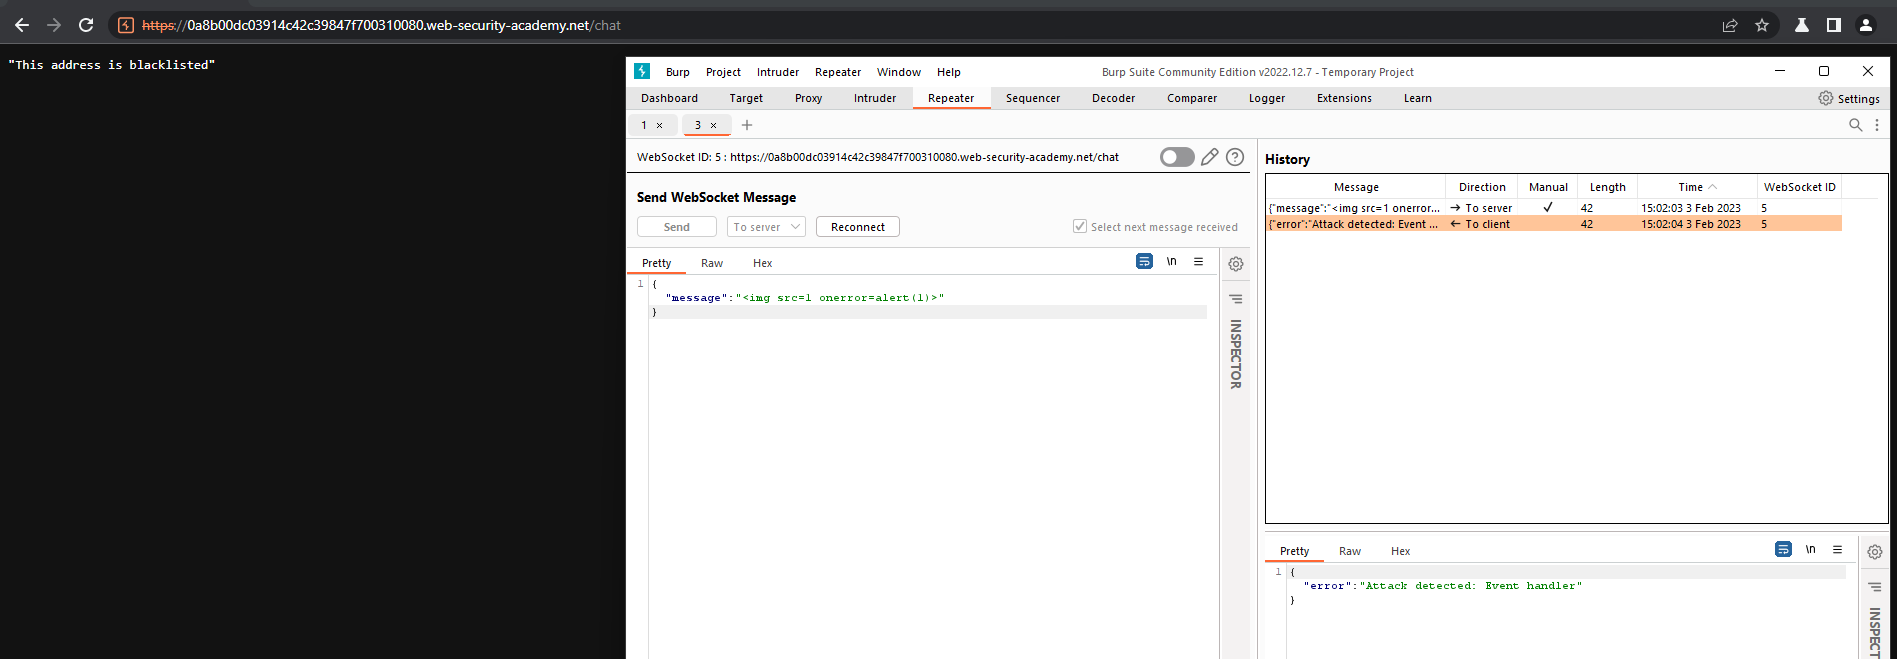
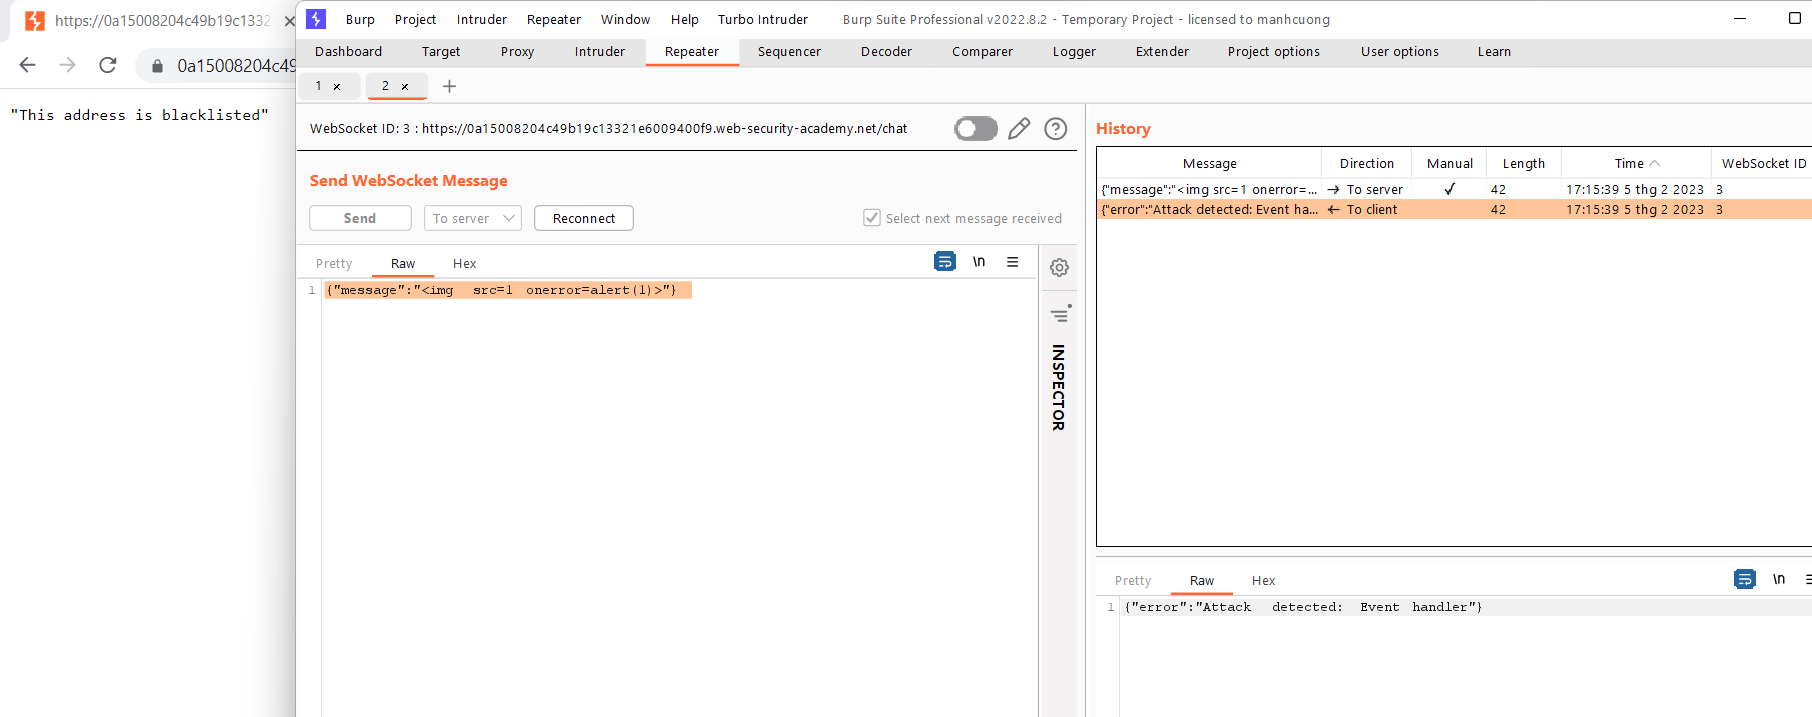
w10-4

diff --git a/web-sec-academy/websocket/Manipulating_the_WebSocket_handshake_to_exploit_vulnerabilities/README.md b/web-sec-academy/websocket/Manipulating_the_WebSocket_handshake_to_exploit_vulnerabilities/README.md
@@ -1,3 +1,12 @@
 ## Manipulating the WebSocket handshake to exploit vulnerabilities
 
-1. 
+1. Gửi item chuyển tới server vào burp repeater, thay bằng payload ``{"message":"<img src=1 onerror=alert(1)>"}``. Nhận được message rằng phát hiện event handler disconnect rồi cho địa chỉ ip vào blacklist.
+
+![Img1](\asset/../img/block.png)
+
+2. Reconnect rồi bypass IP block bằng `X-Forwarded-For` header. 
+
+3. Sau nhiều lần thử các payload khác nhau nhận thấy. Lab sẽ block các thẻ script, javascript protocol, các event. Obfuscation payload ``<a href='jAvAsCripT:alert`1`'></a>``
+ thì thành công.
+
+![Img2](\asset/../img/done.png)

diff --git a/web-sec-academy/websocket/Cross_site_WebSocket_hijacking/README.md b/web-sec-academy/websocket/Cross_site_WebSocket_hijacking/README.md
@@ -1,0 +1,3 @@
+## Cross-site WebSocket hijacking
+
+1. 
